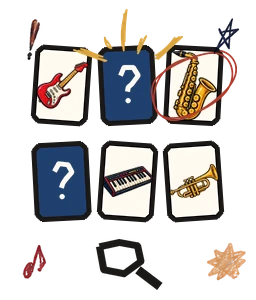
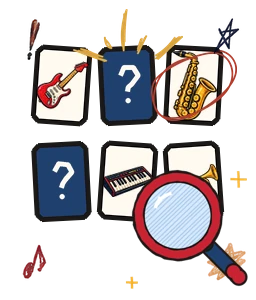
Ícones: lâmpada e lupa novas nos jogos das dicas e cara a cara (cache v252)
Claude-Session: https://claude.ai/code/session_017Ekti1w9MgCDyhnHucBkk3

Changed region(s): [[0.375, 0.54, 0.9688, 0.96], [0.9062, 0.57, 0.9688, 0.63]]

diff --git a/sw.js b/sw.js
@@ -1,5 +1,5 @@
 // Service worker: cacheia só o "casco" do app (código + marca). Nenhum dado do usuário passa por aqui.
-const VERSION = 'beaterista-v251';
+const VERSION = 'beaterista-v252';
 const SHELL = [
   './', 'index.html', 'manifest.webmanifest', 'css/app.css', 'css/kids.css', 'css/lote2.css', 'css/lote3.css', 'css/audit.css', 'js/session.js', 'css/jogos.css', 'css/estudos.css', 'js/views/story.js', 'assets/story/meio-tom-branco.webp', 'assets/story/rasgado-cinza.webp', 'js/jogos/velha.js', 'js/jogos/velha-logic.js', 'js/jogos/velha-data.js', 'js/jogos/bingo.js', 'js/jogos/bingo-logic.js', 'js/jogos/bingo-art.js', 'js/jogos/cara.js', 'js/jogos/cara-logic.js', 'js/jogos/cara-data.js', 'js/jogos/quebra.js', 'js/jogos/quebra-logic.js', 'js/jogos/stop.js', 'js/jogos/stop-logic.js', 'js/jogos/stop-valid.js', 'js/jogos/stop-sfx.js', 'js/jogos/stop-bank-teoria.js', 'js/jogos/stop-bank-cultura.js', 'assets/jogos/palco.webp', 'js/views/jogos.js', 'js/views/jogos-relatorio.js', 'js/jogos/base.js', 'js/jogos/cartas.js', 'js/jogos/cartas-logic.js', 'js/jogos/cartas-simbolos.js', 'js/jogos/cartas-sfx.js', 'aluno.html', 'js/aluno.js', 'js/aluno-boot.js', 'js/ranking.js', 'js/paul-talk.js', 'js/views/acessos.js', 'manifest-aluno.webmanifest', 'js/mic-access.js', 'js/views/ata.js', 'js/views/kids-relatorio.js', 'js/feedback.js', 'js/tips.js', 'js/tipbox.js', 'js/views/dicas.js', 'js/views/figuras-aprender.js', 'js/kids/ritmo.js', 'js/kids/memoria.js', 'js/kids/memory-themes.js',
   'js/app.js', 'js/util.js', 'js/db.js', 'js/store.js', 'js/auth.js', 'js/sync.js', 'js/config.js',

diff --git a/PASSAGEM.md b/PASSAGEM.md
@@ -121,4 +121,4 @@ O que se sobe no GitHub **não** chega sozinho à área dos alunos.
 - Testes: `tests/e2e/acesso.mjs`. Cache v246.
 
 ## Ícones dos jogos (nov/2026)
-- A Bea **gosta do estilo rabisco colorido** dos webp (cartas, bingo, velha, stop, quebra-cabeça, cara a cara) e quer tudo nele. Os que faltavam foram **montados por colagem, SEM o Paul (a Bea não quer o Paul nos ícones)** com peças de `assets/paul/el/*`, `assets/rabiscos/*` e `assets/jogos/instrumentos/*`: `dicas`, `ritmo`, `figuras`, `pauta`, `cara`, `dicas` em `assets/jogos/icones/*.webp` (os .svg antigos ficam no repositório, ainda usados em Kids/relatório da Bea). Se ela gerar ilustrações novas na mesma IA dos originais, é só trocar os arquivos (256×~300 px, fundo transparente). `paul.webp` e `rabiscos.webp` são decoração, não são de jogo. "Fases e estrelas" usa o `rabiscos.webp` (estrelas rabiscadas que a Bea escolheu). Os 6 originais (cartas, bingo, velha, stop, quebra-cabeca, cara-a-cara) NÃO podem ser trocados. Toca Aqui usa o `paul.webp` (Paul com as baquetas, escolha da Bea; ele só vale como ícone desse jogo). Jogo da memória usa o ícone antigo do cara a cara (`cara-a-cara.webp`, escolha da Bea); o cara a cara ganhou ícone novo (`cara.webp`, tabuleiro de instrumentos). Cache v251.
+- A Bea **gosta do estilo rabisco colorido** dos webp (cartas, bingo, velha, stop, quebra-cabeça, cara a cara) e quer tudo nele. Os que faltavam foram **montados por colagem, SEM o Paul (a Bea não quer o Paul nos ícones)** com peças de `assets/paul/el/*`, `assets/rabiscos/*` e `assets/jogos/instrumentos/*`: `dicas`, `ritmo`, `figuras`, `pauta`, `cara`, `dicas` em `assets/jogos/icones/*.webp` (os .svg antigos ficam no repositório, ainda usados em Kids/relatório da Bea). Se ela gerar ilustrações novas na mesma IA dos originais, é só trocar os arquivos (256×~300 px, fundo transparente). `paul.webp` e `rabiscos.webp` são decoração, não são de jogo. "Fases e estrelas" usa o `rabiscos.webp` (estrelas rabiscadas que a Bea escolheu). Os 6 originais (cartas, bingo, velha, stop, quebra-cabeca, cara-a-cara) NÃO podem ser trocados. Toca Aqui usa o `paul.webp` (Paul com as baquetas, escolha da Bea; ele só vale como ícone desse jogo). Jogo da memória usa o ícone antigo do cara a cara (`cara-a-cara.webp`, escolha da Bea); o cara a cara ganhou ícone novo (`cara.webp`, tabuleiro de instrumentos). Lâmpada e lupa "bonitinhas" (traço de marcador, hachura) estão nos ícones `dicas` e `cara`. Cache v252.
